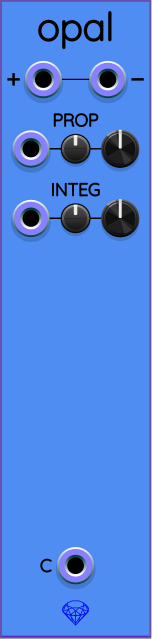
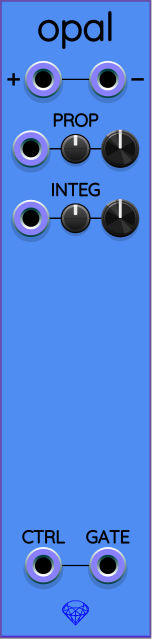
Opal: now have two outputs: CTRL, GATE.
The GATE output reports whether the feedback controller believes
it is operating within bounds. It is +10V when it believes the
system is under control, 0V when it believes control has been lost.

Changed region(s): [[0.1316, 0.8028, 0.8421, 0.9218]]

diff --git a/util/make_sapphire_svg.py b/util/make_sapphire_svg.py
@@ -1955,25 +1955,28 @@ def GenerateOpalPanel(cdict:Dict[str, ControlLayer]) -> int:
     yInputPorts = yRow.value(0)
     yProp = yRow.value(1)
     yInteg = yRow.value(2)
-    yControlOutput = yRow.value(7)
-    dxInputPort = 6.5
+    yOutputPorts = yRow.value(7)
+    dxPortPair = 6.5
     dxPortText = 6.0
     dyText = 5.8
     with Font(SAPPHIRE_FONT_FILENAME) as font:
         pl.append(BorderRect(PANEL_WIDTH, SAPPHIRE_PANEL_COLOR, SAPPHIRE_BORDER_COLOR))
         pl.append(CenteredGemstone(panel))
         pl.append(ModelNamePath(panel, font, name))
-        pl.append(SymbolArtPath('+', xmid - dxInputPort - dxPortText, yInputPorts, 'pos_text'))
-        pl.append(SymbolArtPath('-', xmid + dxInputPort + dxPortText, yInputPorts, 'neg_text'))
-        pl.append(HorizontalLine(xmid - dxInputPort, xmid + dxInputPort, yInputPorts, 'pos_neg_connector'))
-        controls.append(Component('pos_input', xmid - dxInputPort, yInputPorts))
-        controls.append(Component('neg_input', xmid + dxInputPort, yInputPorts))
+        pl.append(SymbolArtPath('+', xmid - dxPortPair - dxPortText, yInputPorts, 'pos_text'))
+        pl.append(SymbolArtPath('-', xmid + dxPortPair + dxPortText, yInputPorts, 'neg_text'))
+        pl.append(HorizontalLine(xmid - dxPortPair, xmid + dxPortPair, yInputPorts, 'pos_neg_connector'))
+        controls.append(Component('pos_input', xmid - dxPortPair, yInputPorts))
+        controls.append(Component('neg_input', xmid + dxPortPair, yInputPorts))
         AddFlatControlGroup(pl, controls, xmid, yProp, 'proportional')
         AddFlatControlGroup(pl, controls, xmid, yInteg, 'integral')
         pl.append(CenteredControlTextPath(font, 'PROP',  xmid, yProp - dyText))
         pl.append(CenteredControlTextPath(font, 'INTEG', xmid, yInteg - dyText))
-        controls.append(Component('control_output', xmid, yControlOutput))
-        pl.append(CenteredControlTextPath(font, 'C', xmid - dxPortText, yControlOutput, 'control_text'))
+        controls.append(Component('control_output', xmid - dxPortPair, yOutputPorts))
+        controls.append(Component('gate_output', xmid + dxPortPair, yOutputPorts))
+        pl.append(HorizontalLine(xmid - dxPortPair, xmid + dxPortPair, yOutputPorts, 'control_gate_connector'))
+        pl.append(CenteredControlTextPath(font, 'CTRL', xmid - dxPortPair, yOutputPorts - dyText, 'control_text'))
+        pl.append(CenteredControlTextPath(font, 'GATE', xmid + dxPortPair, yOutputPorts - dyText, 'gate_text'))
     return Save(panel, svgFileName)
 
 

diff --git a/src/sapphire_feedback_controller.hpp b/src/sapphire_feedback_controller.hpp
@@ -8,6 +8,20 @@ namespace Sapphire
     // See the following for more info about proportional-integral feedback controllers:
     // https://apmonitor.com/pdc/index.php/Main/ProportionalIntegralControl
 
+
+    template <typename value_t>
+    struct FeedbackControllerResult
+    {
+        value_t response;
+        bool    bounded;    // is the feedback controller operating within the bounds [-limit, +limit]?
+
+        explicit FeedbackControllerResult(value_t _response, bool _bounded)
+            : response(_response)
+            , bounded(_bounded)
+            {}
+    };
+
+
     template <typename value_t>
     class FeedbackController
     {
@@ -20,6 +34,8 @@ namespace Sapphire
 
         LoHiPassFilter<value_t> inFilter;
         LoHiPassFilter<value_t> outFilter;
+
+        int unstableCountdown;
 
     public:
         FeedbackController()
@@ -35,6 +51,7 @@ namespace Sapphire
             response = 0;
             inFilter.Reset();
             outFilter.Reset();
+            unstableCountdown = 0;
         }
 
         void setProportionalFactor(value_t knob = 0)
@@ -49,7 +66,7 @@ namespace Sapphire
             kIntegral = TenToPower<value_t>(-(k + 1.35));
         }
 
-        value_t process(value_t error, float sampleRateHz)
+        FeedbackControllerResult<value_t> process(value_t error, float sampleRateHz)
         {
             inFilter.SetCutoffFrequency(100);
             inFilter.Update(error, sampleRateHz);
@@ -57,14 +74,22 @@ namespace Sapphire
 
             // Do not keep integrating error if we have saturated the output level.
             // This conditional logic is called "anti-reset windup".
-            if (std::abs(response) < limit)
+            if (std::abs(response) < 0.98 * limit)
+            {
                 accum += smooth / (kIntegral * sampleRateHz);
+                if (unstableCountdown > 0)
+                    --unstableCountdown;
+            }
+            else
+            {
+                unstableCountdown = static_cast<int>(sampleRateHz / 10);
+            }
 
             value_t rough = std::clamp(-kProportional*(smooth + accum), -limit, +limit);
             outFilter.SetCutoffFrequency(100);
             outFilter.Update(rough, sampleRateHz);
             response = outFilter.LoPass();
-            return response;
+            return FeedbackControllerResult(response, unstableCountdown==0);
         }
     };
 }

diff --git a/src/opal_vcv.cpp b/src/opal_vcv.cpp
@@ -27,6 +27,7 @@ namespace Sapphire
         enum OutputId
         {
             CONTROL_OUTPUT,
+            GATE_OUTPUT,
             OUTPUTS_LEN
         };
 
@@ -47,6 +48,7 @@ namespace Sapphire
                 configInput(POS_INPUT, "Positive");
                 configInput(NEG_INPUT, "Negative");
                 configOutput(CONTROL_OUTPUT, "Control");
+                configOutput(GATE_OUTPUT, "Gate");
                 configControlGroup("Proportional response", PROPORTIONAL_PARAM, PROPORTIONAL_ATTEN, PROPORTIONAL_CV_INPUT);
                 configControlGroup("Integral response", INTEGRAL_PARAM, INTEGRAL_ATTEN, INTEGRAL_CV_INPUT);
                 initialize();
@@ -92,8 +94,9 @@ namespace Sapphire
 
                         fbc[c].setProportionalFactor(prop);
                         fbc[c].setIntegralFactor(integ);
-                        float response = fbc[c].process(vpos-vneg, args.sampleRate);
-                        outputs[CONTROL_OUTPUT].setVoltage(response, c);
+                        auto f = fbc[c].process(vpos-vneg, args.sampleRate);
+                        outputs[CONTROL_OUTPUT].setVoltage(f.response, c);
+                        outputs[GATE_OUTPUT].setVoltage(f.bounded?10:0, c);
                     }
                 }
             }
@@ -112,6 +115,7 @@ namespace Sapphire
                 addSapphireInput(POS_INPUT, "pos_input");
                 addSapphireInput(NEG_INPUT, "neg_input");
                 addSapphireOutput(CONTROL_OUTPUT, "control_output");
+                addSapphireOutput(GATE_OUTPUT, "gate_output");
                 addSapphireFlatControlGroup("proportional", PROPORTIONAL_PARAM, PROPORTIONAL_ATTEN, PROPORTIONAL_CV_INPUT);
                 addSapphireFlatControlGroup("integral", INTEGRAL_PARAM, INTEGRAL_ATTEN, INTEGRAL_CV_INPUT);
             }

diff --git a/src/sapphire_panel.cpp b/src/sapphire_panel.cpp
@@ -238,7 +238,8 @@ namespace Sapphire
             }},
         { "opal", {
             {"_panel",                 {  30.480,  128.500}},
-            {"control_output",         {  15.240,  114.000}},
+            {"control_output",         {   8.740,  114.000}},
+            {"gate_output",            {  21.740,  114.000}},
             {"integral_atten",         {  15.240,   44.000}},
             {"integral_cv",            {   6.240,   44.000}},
             {"integral_knob",          {  24.240,   44.000}},
